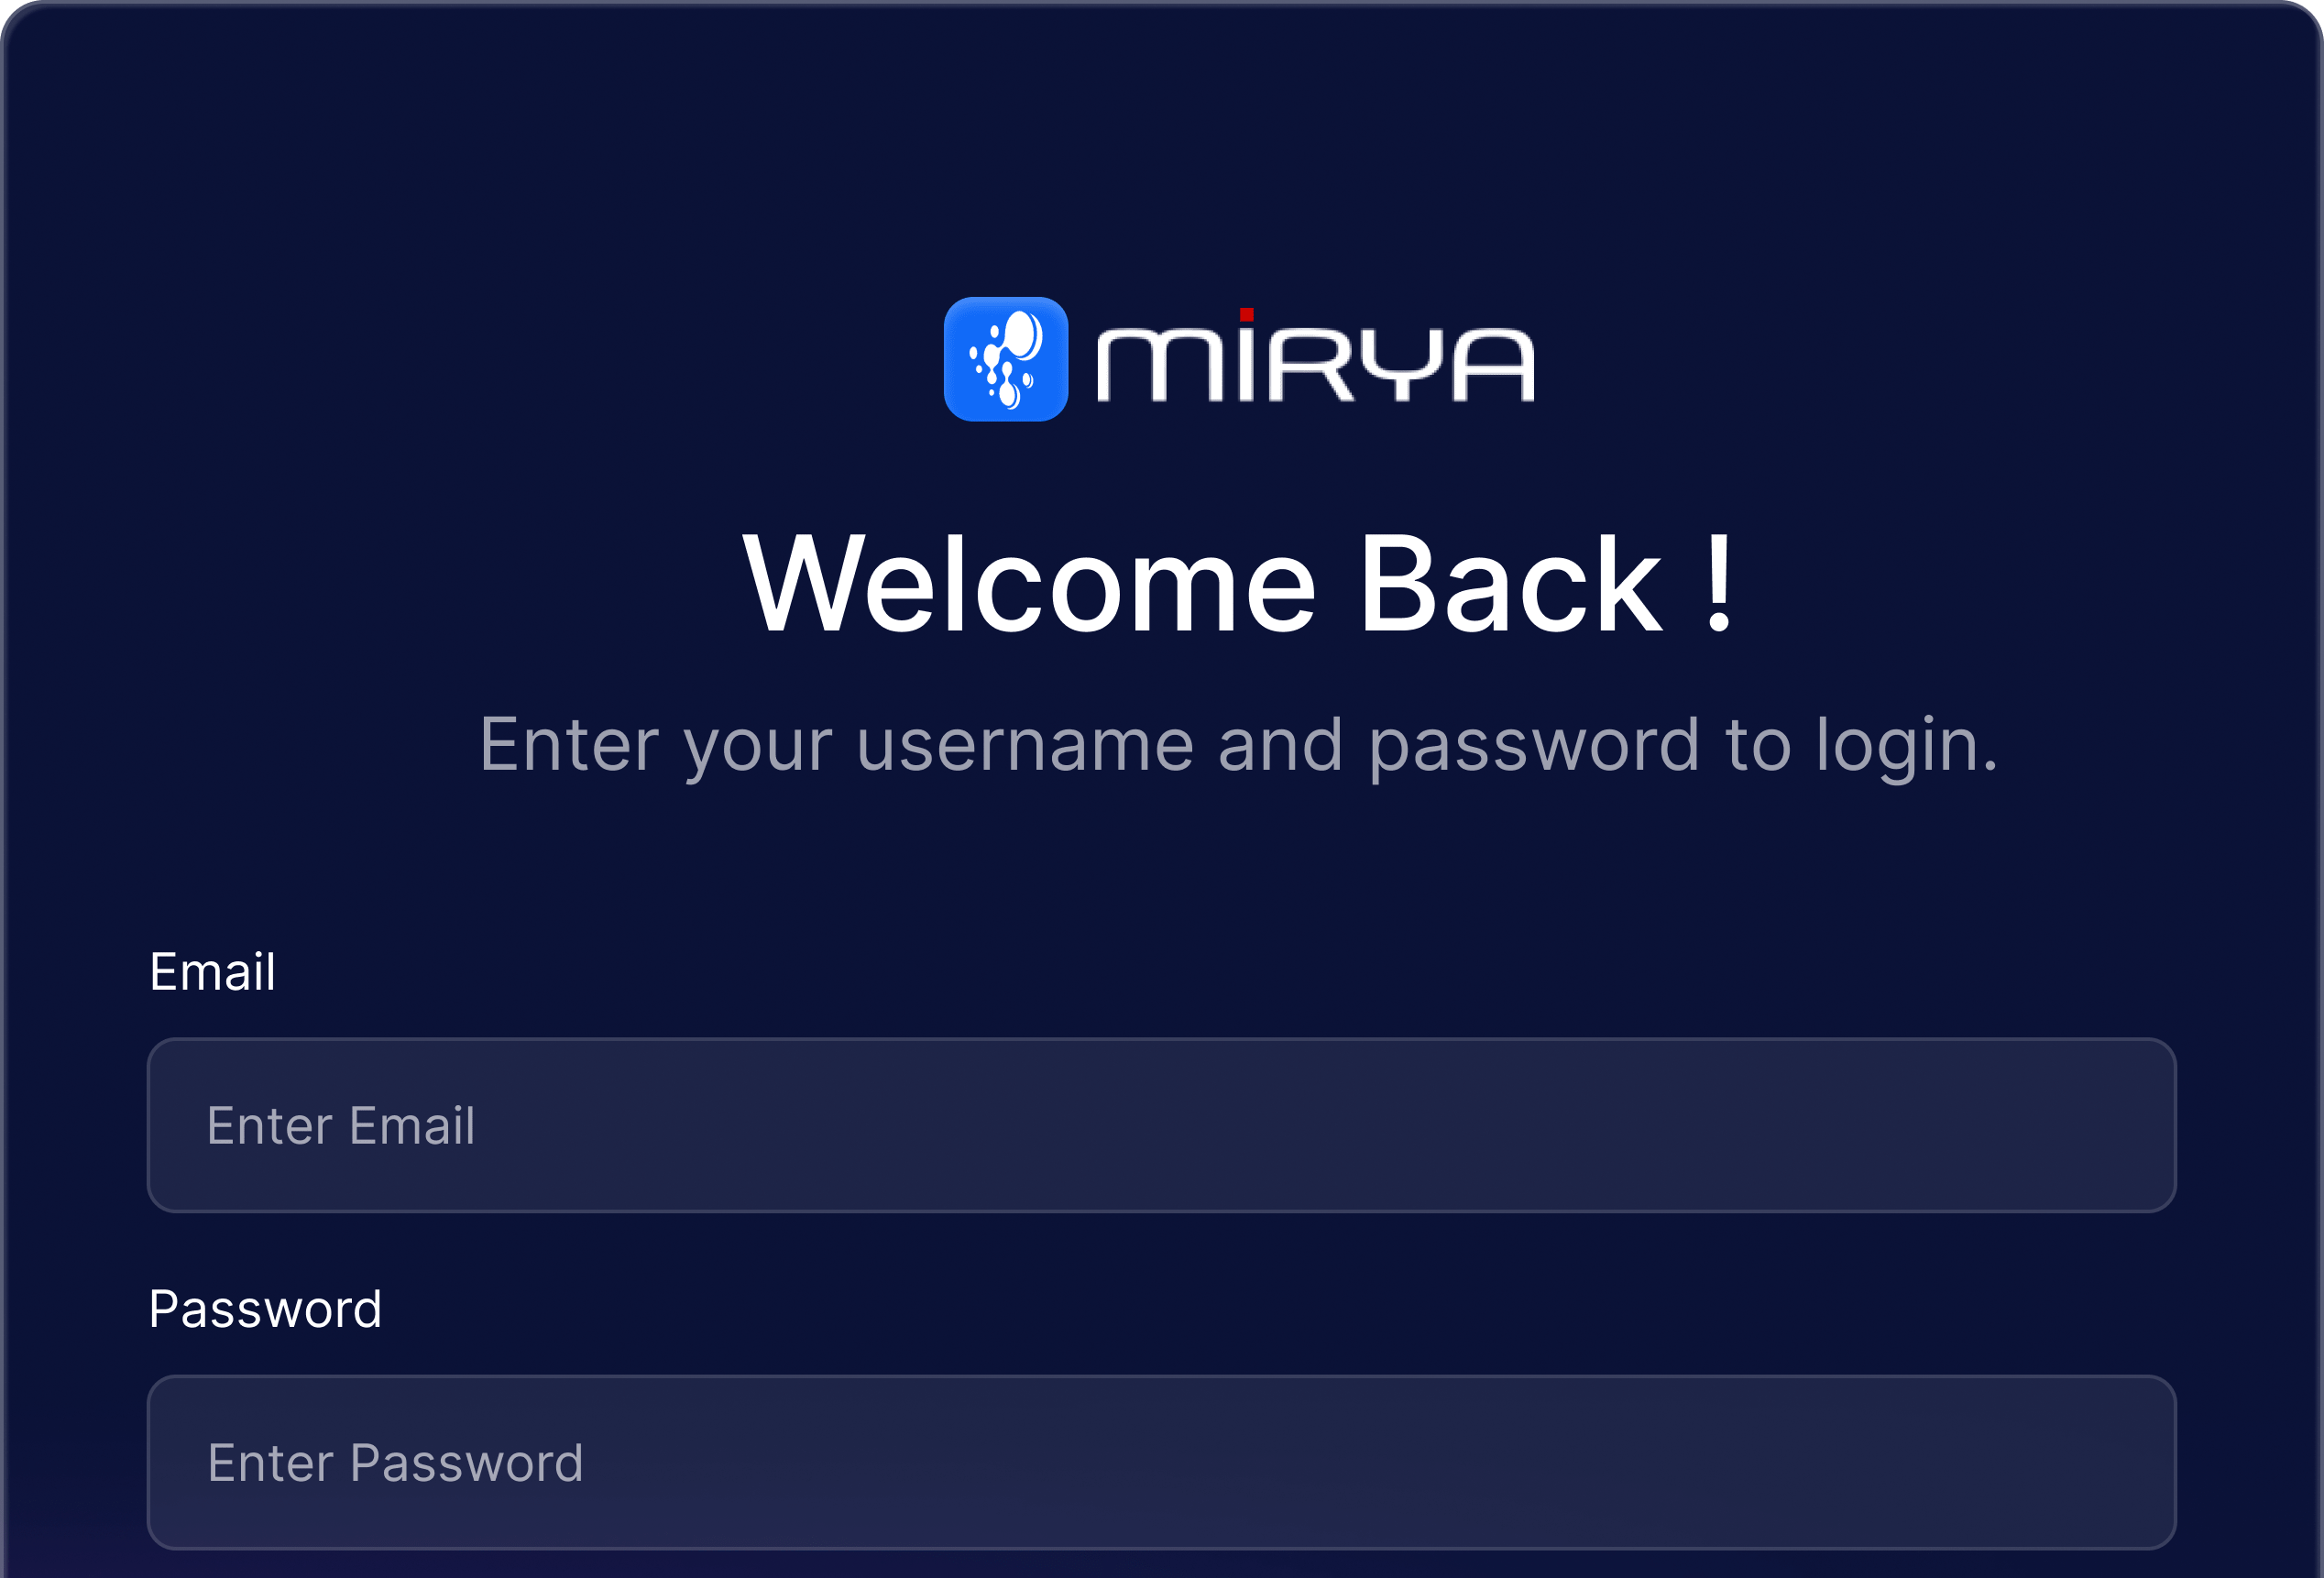
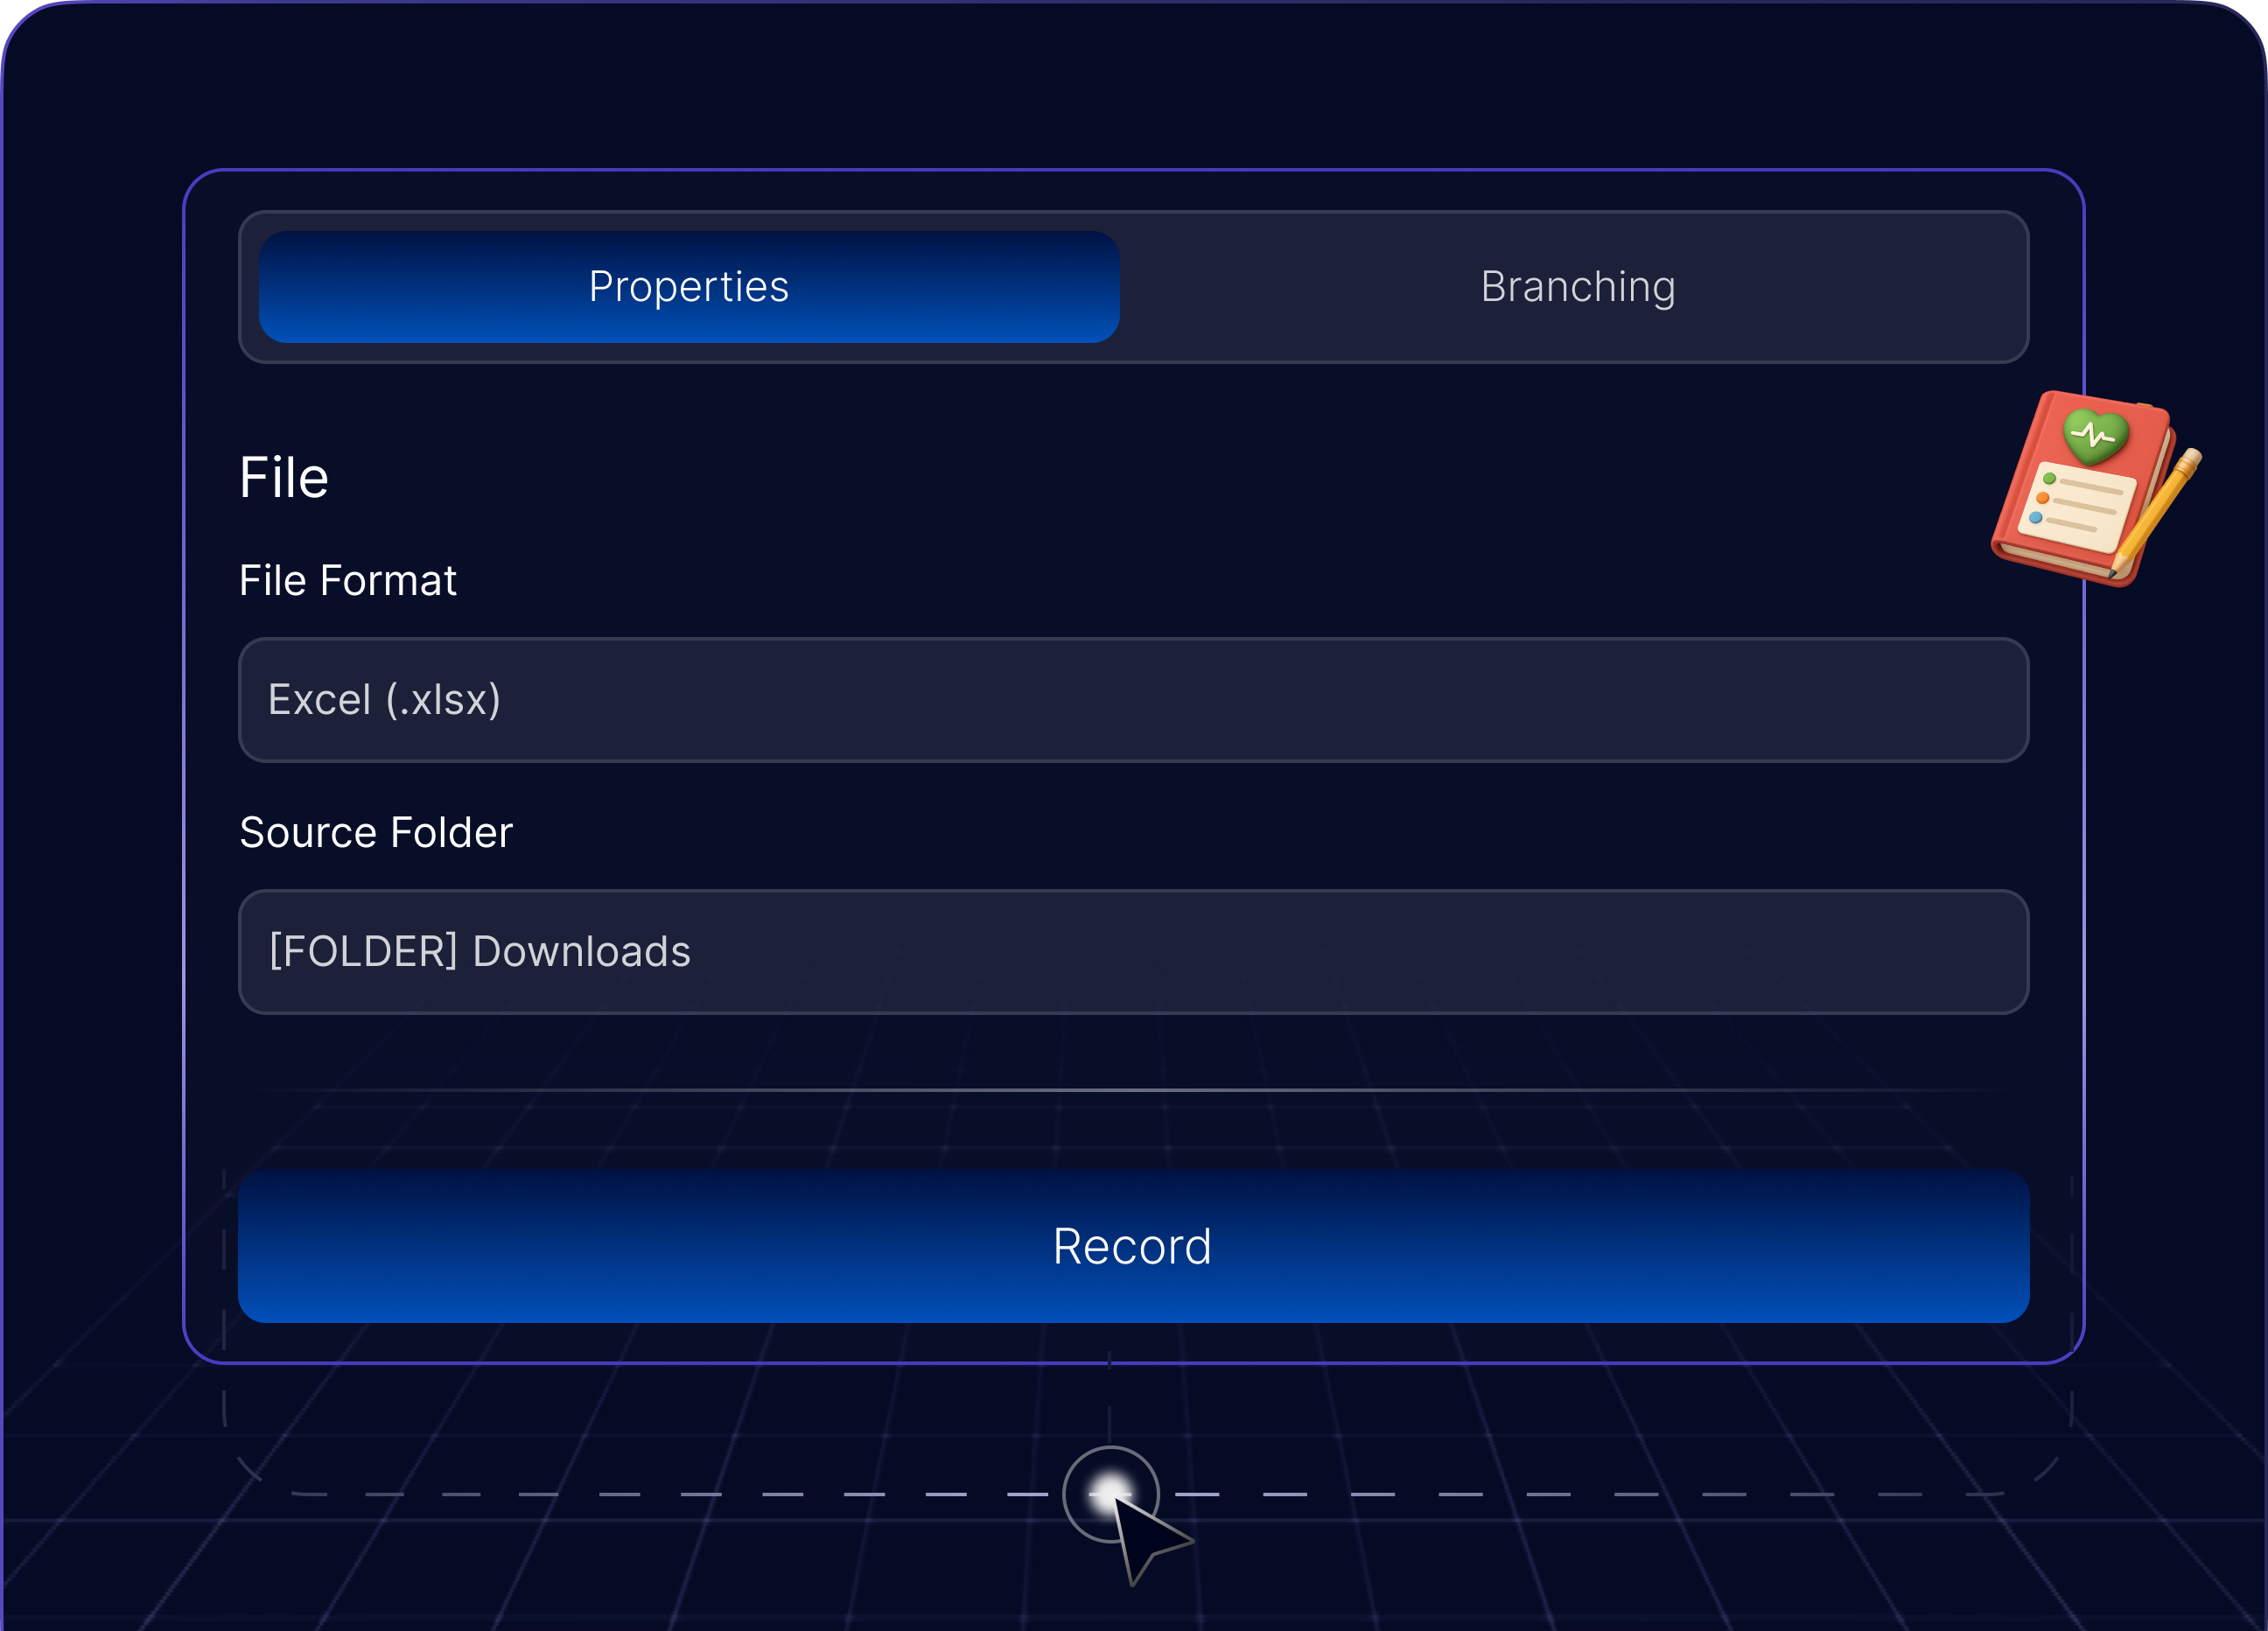
qa issues resolved

diff --git a/app/components/Home/Features.tsx b/app/components/Home/Features.tsx
@@ -105,7 +105,7 @@ export default function Features() {
             variants={itemVariants}
             className="heading-1 font-medium text-[#FFFFFF] max-w-[700px] text-center"
           >
-            Powerful Features That Make <br /> Automation Effortless
+            Powerful features that make <br /> automation effortless
           </motion.h1>
           <motion.h6
             variants={itemVariants}

diff --git a/app/components/Home/HowToUse.tsx b/app/components/Home/HowToUse.tsx
@@ -33,7 +33,7 @@ const HowToUse = () => {
       title: "Improve & Scale",
       description:
         "Customize, repeat, or expand your automation across entire teams or departments. Zero code. Zero complexity. Maximum impact.",
-      image: "/images/how3.png",
+      image: "/images/how4.png",
     },
   ];
 